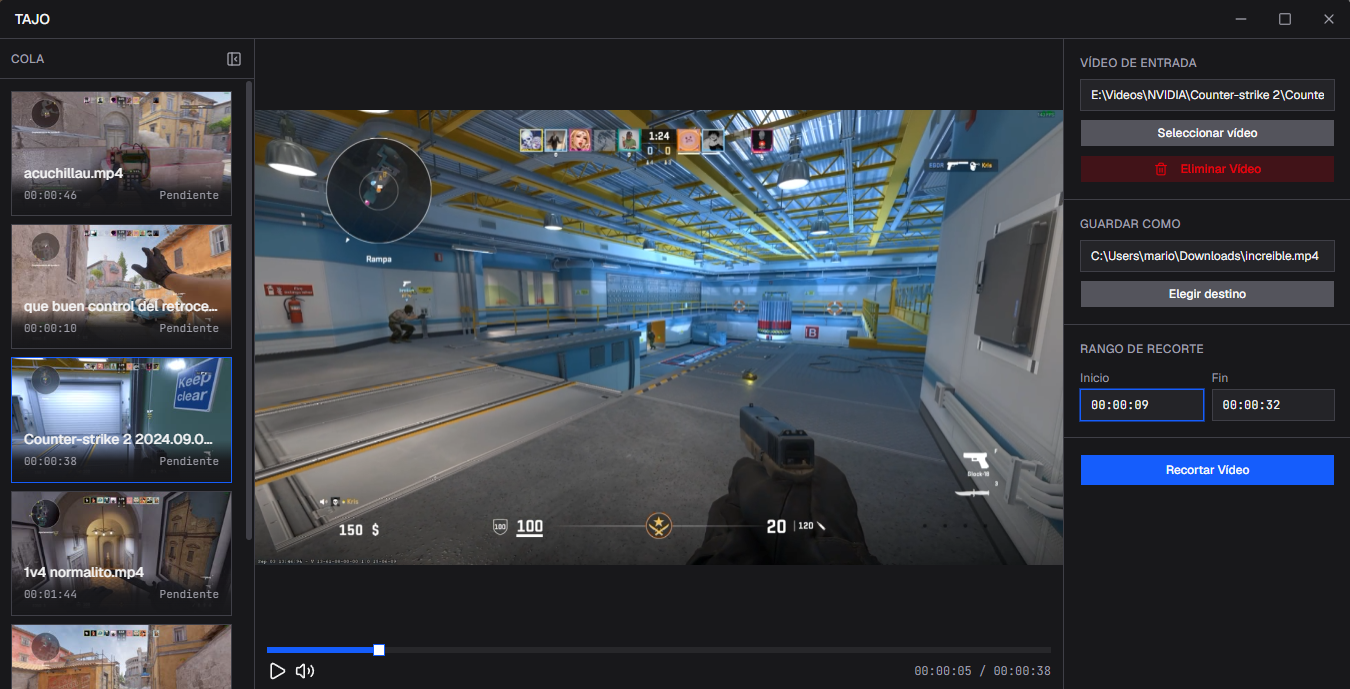
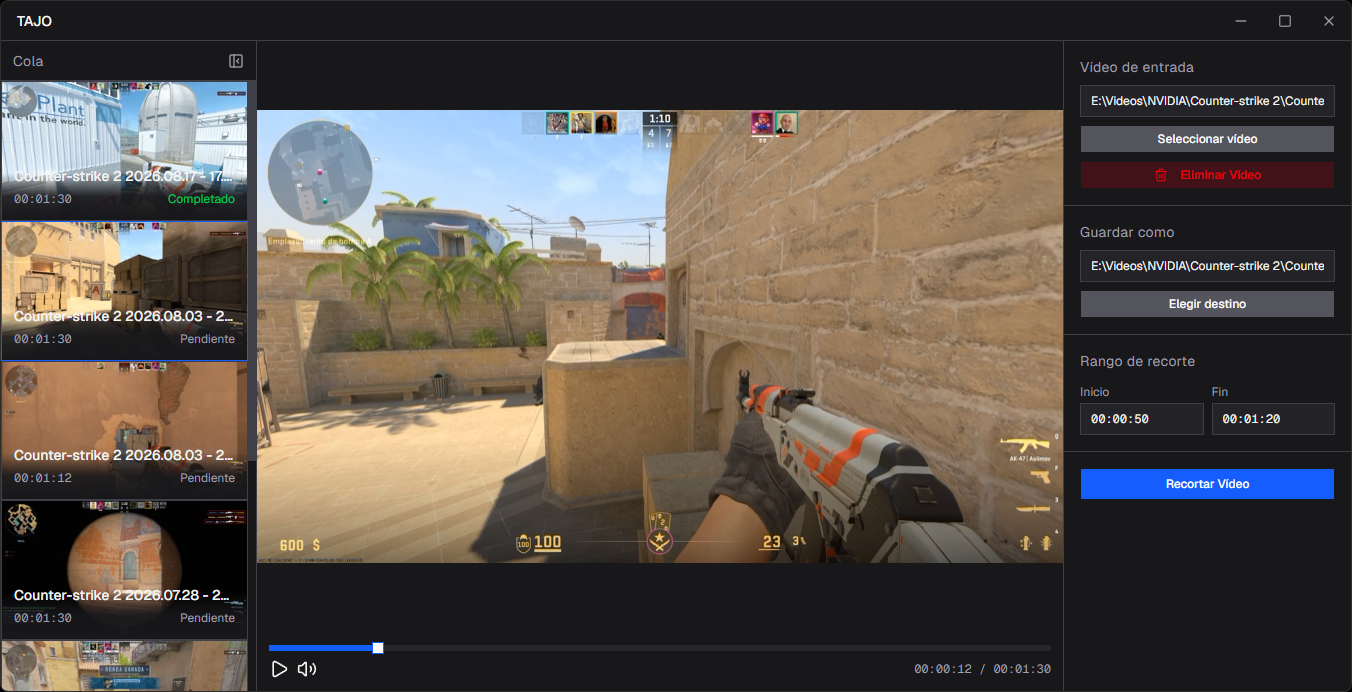
docs: update README to include planned features and new screenshot

diff --git a/README.md b/README.md
@@ -16,6 +16,12 @@ This project is actively in development. Main features right now include:
 - Trim
 - Export to a chosen path
 
+## Planned Features
+Some of the features planned for future releases include:
+- English language support
+- Linux compatibility
+- Expand editing options (format conversion, compression, etc.)
+
 ## Stack
 
 <p align="left">
